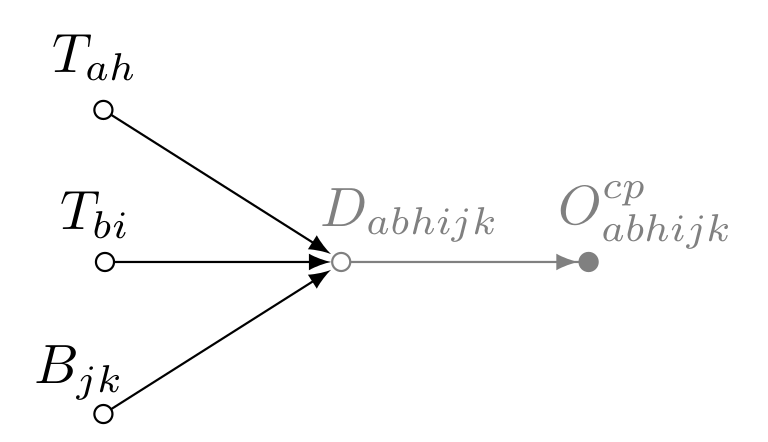
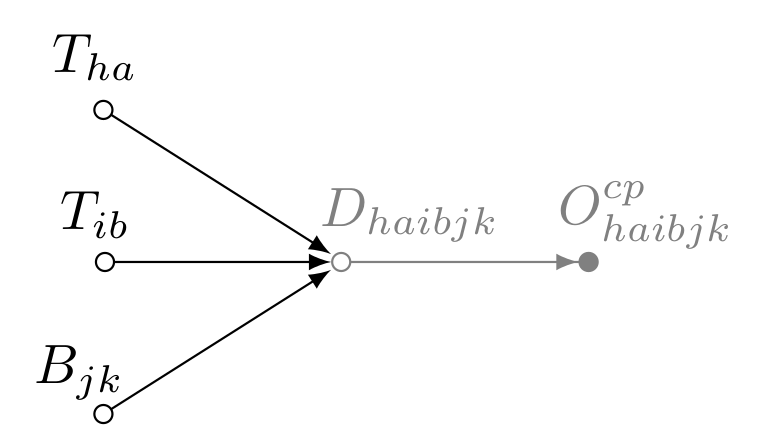
section:theoretical; process:write,figures

diff --git a/images/text/CJ_TM_01.tex b/images/text/CJ_TM_01.tex
@@ -8,24 +8,24 @@
 \begin{tikzpicture}
 
     % outcome
-    \node at (3.5,1) {$O^{cp}_{abhijk}$}; %[gray]
+    \node at (3.5,1) {$O^{cp}_{haibjk}$}; %[gray]
 
     % difference
-    \node at (2,1) {$D_{abhijk}$}; %[gray]
+    \node at (2,1) {$D_{haibjk}$}; %[gray]
     \draw[{Circle[open]}-{latex}{Circle}](1.5,0.7) to (3.2,0.7); %,gray
 
     %%%%%%%%%%%%%%%%%%%%%%%%%%%%%%%%%%%%%%%%%%%%%%%%%%%%%%%%%
 
-    %% "true" discriminal process for sub-unit
-    %\node at (0,2) {$T_{ah}$}; %[gray]
+    % "true" discriminal process for sub-unit
+    %\node at (0,2) {$T_{ha}$}; %[gray]
     %\draw[{Circle[open]}-{latex}](0,1.7) to (1.5,0.75); %,gray 
     
     % "true" discriminal process for sub-unit
-    %\node at (0,1) {$T_{bi}$}; %[gray]
+    %\node at (0,1) {$T_{ib}$}; %[gray]
     %\draw[{Circle[open]}-{latex}](0,0.7) to (1.5,0.7); %,gray
     
     % judges' biases
-    %\node at (-0.1,0) {$B_{kj}$}; %[gray]
+    %\node at (-0.1,0) {$B_{jk}$}; %[gray]
     %\draw[{Circle[open]}-{latex}](0,-0.3) to (1.5,0.65); %,gray     
     
 \end{tikzpicture}

diff --git a/images/text/CJ_TM_02.tex b/images/text/CJ_TM_02.tex
@@ -8,20 +8,20 @@
 \begin{tikzpicture}
 
     % outcome
-    \node[gray] at (3.5,1) {$O^{cp}_{abhijk}$}; %[gray]
+    \node[gray] at (3.5,1) {$O^{cp}_{haibjk}$}; %[gray]
 
     % difference
-    \node[gray] at (2,1) {$D_{abhijk}$}; %[gray]
+    \node[gray] at (2,1) {$D_{haibjk}$}; %[gray]
     \draw[{Circle[open]}-{latex}{Circle},gray](1.5,0.7) to (3.2,0.7); %,gray
 
     %%%%%%%%%%%%%%%%%%%%%%%%%%%%%%%%%%%%%%%%%%%%%%%%%%%%%%%%%
 
     % "true" discriminal process for sub-unit
-    \node at (0,2) {$T_{ah}$}; %[gray]
+    \node at (0,2) {$T_{ha}$}; %[gray]
     \draw[{Circle[open]}-{latex}](0,1.7) to (1.5,0.75); %,gray 
     
     % "true" discriminal process for sub-unit
-    \node at (0,1) {$T_{bi}$}; %[gray]
+    \node at (0,1) {$T_{ib}$}; %[gray]
     \draw[{Circle[open]}-{latex}](0,0.7) to (1.5,0.7); %,gray
     
     % judges' biases

diff --git a/images/text/CJ_TM_03.tex b/images/text/CJ_TM_03.tex
@@ -8,20 +8,20 @@
 \begin{tikzpicture}
 
     % outcome
-    \node at (3.5,1) {$O^{cp}_{abhijk}$}; %[gray]
+    \node at (3.5,1) {$O^{cp}_{haibjk}$}; %[gray]
 
     % difference
-    \node at (2,1) {$D_{abhijk}$}; %[gray]
+    \node at (2,1) {$D_{haibjk}$}; %[gray]
     \draw[{Circle[open]}-{latex}{Circle}](1.5,0.7) to (3.2,0.7); %,gray
 
     %%%%%%%%%%%%%%%%%%%%%%%%%%%%%%%%%%%%%%%%%%%%%%%%%%%%%%%%%
 
     % "true" discriminal process for sub-unit
-    \node at (0,2) {$T_{ah}$}; %[gray]
+    \node at (0,2) {$T_{ha}$}; %[gray]
     \draw[{Circle[open]}-{latex}](0,1.7) to (1.5,0.75); %,gray 
     
     % "true" discriminal process for sub-unit
-    \node at (0,1) {$T_{bi}$}; %[gray]
+    \node at (0,1) {$T_{ib}$}; %[gray]
     \draw[{Circle[open]}-{latex}](0,0.7) to (1.5,0.7); %,gray
     
     % judges' biases
